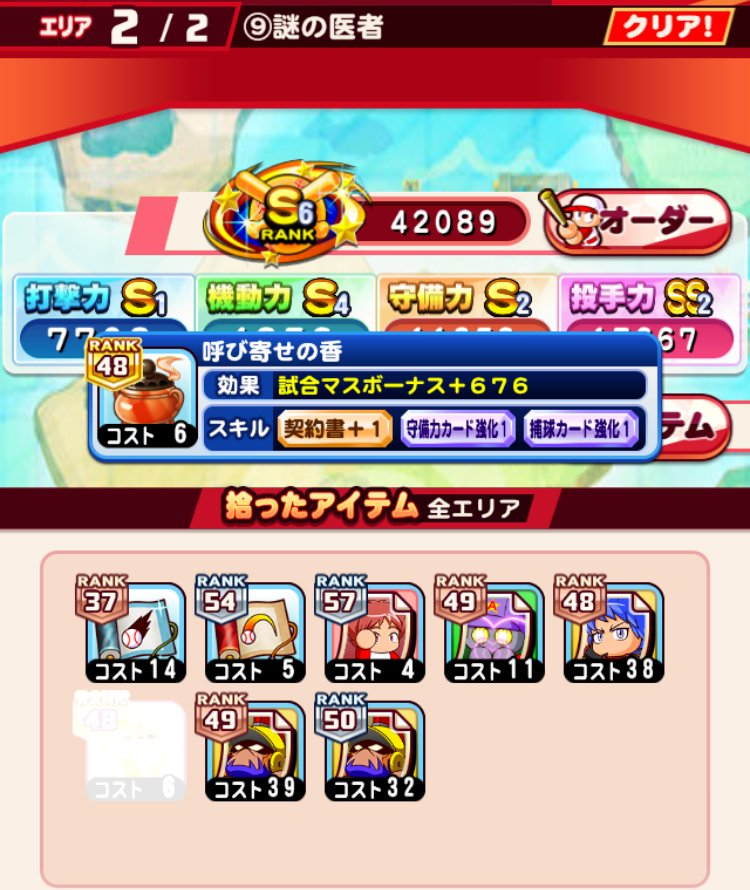
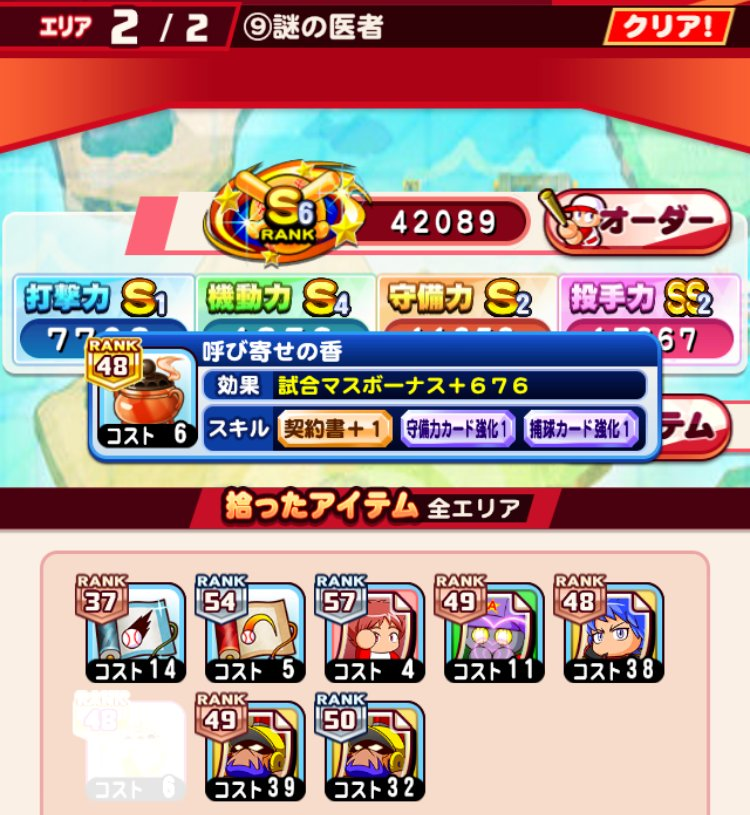
西球記 重要アイテム周回方法：呼び寄せの香のドロップ画像の下の余白を詰める
Claude-Session: https://claude.ai/code/session_019YJeT2ksEZZ4rp6LiQsZVr

diff --git a/src/pages/pawaque-saikyuki-drop.html b/src/pages/pawaque-saikyuki-drop.html
@@ -51,7 +51,7 @@ pq_order: 8
   <ul>
     <li><a href="{{root}}pawaque/saikyuki/quest/#q9">⑨謎の医者</a>　エリア2　<span class="cp-nw">ボス勝利（不確定）</span></li>
   </ul>
-  <img class="pq-img" src="{{root}}img/pawaque/saikyuki_drop_kou.jpg" alt="⑨謎の医者でドロップした契約書＋1付きの呼び寄せの香" width="750" height="890" loading="lazy">
+  <img class="pq-img" src="{{root}}img/pawaque/saikyuki_drop_kou.jpg" alt="⑨謎の医者でドロップした契約書＋1付きの呼び寄せの香" width="750" height="815" loading="lazy">
 
   <p><a href="{{root}}pawaque/saikyuki/">西球記の攻略（トップ）</a>に<span class="cp-nw">戻る</span></p>
 </div>

diff --git a/docs/pawaque/saikyuki/drop/index.html b/docs/pawaque/saikyuki/drop/index.html
@@ -100,7 +100,7 @@
   <ul>
     <li><a href="../../../pawaque/saikyuki/quest/#q9">⑨謎の医者</a>　エリア2　<span class="cp-nw">ボス勝利（不確定）</span></li>
   </ul>
-  <img class="pq-img" src="../../../img/pawaque/saikyuki_drop_kou.jpg" alt="⑨謎の医者でドロップした契約書＋1付きの呼び寄せの香" width="750" height="890" loading="lazy">
+  <img class="pq-img" src="../../../img/pawaque/saikyuki_drop_kou.jpg" alt="⑨謎の医者でドロップした契約書＋1付きの呼び寄せの香" width="750" height="815" loading="lazy">
 
   <p><a href="../../../pawaque/saikyuki/">西球記の攻略（トップ）</a>に<span class="cp-nw">戻る</span></p>
 </div>
